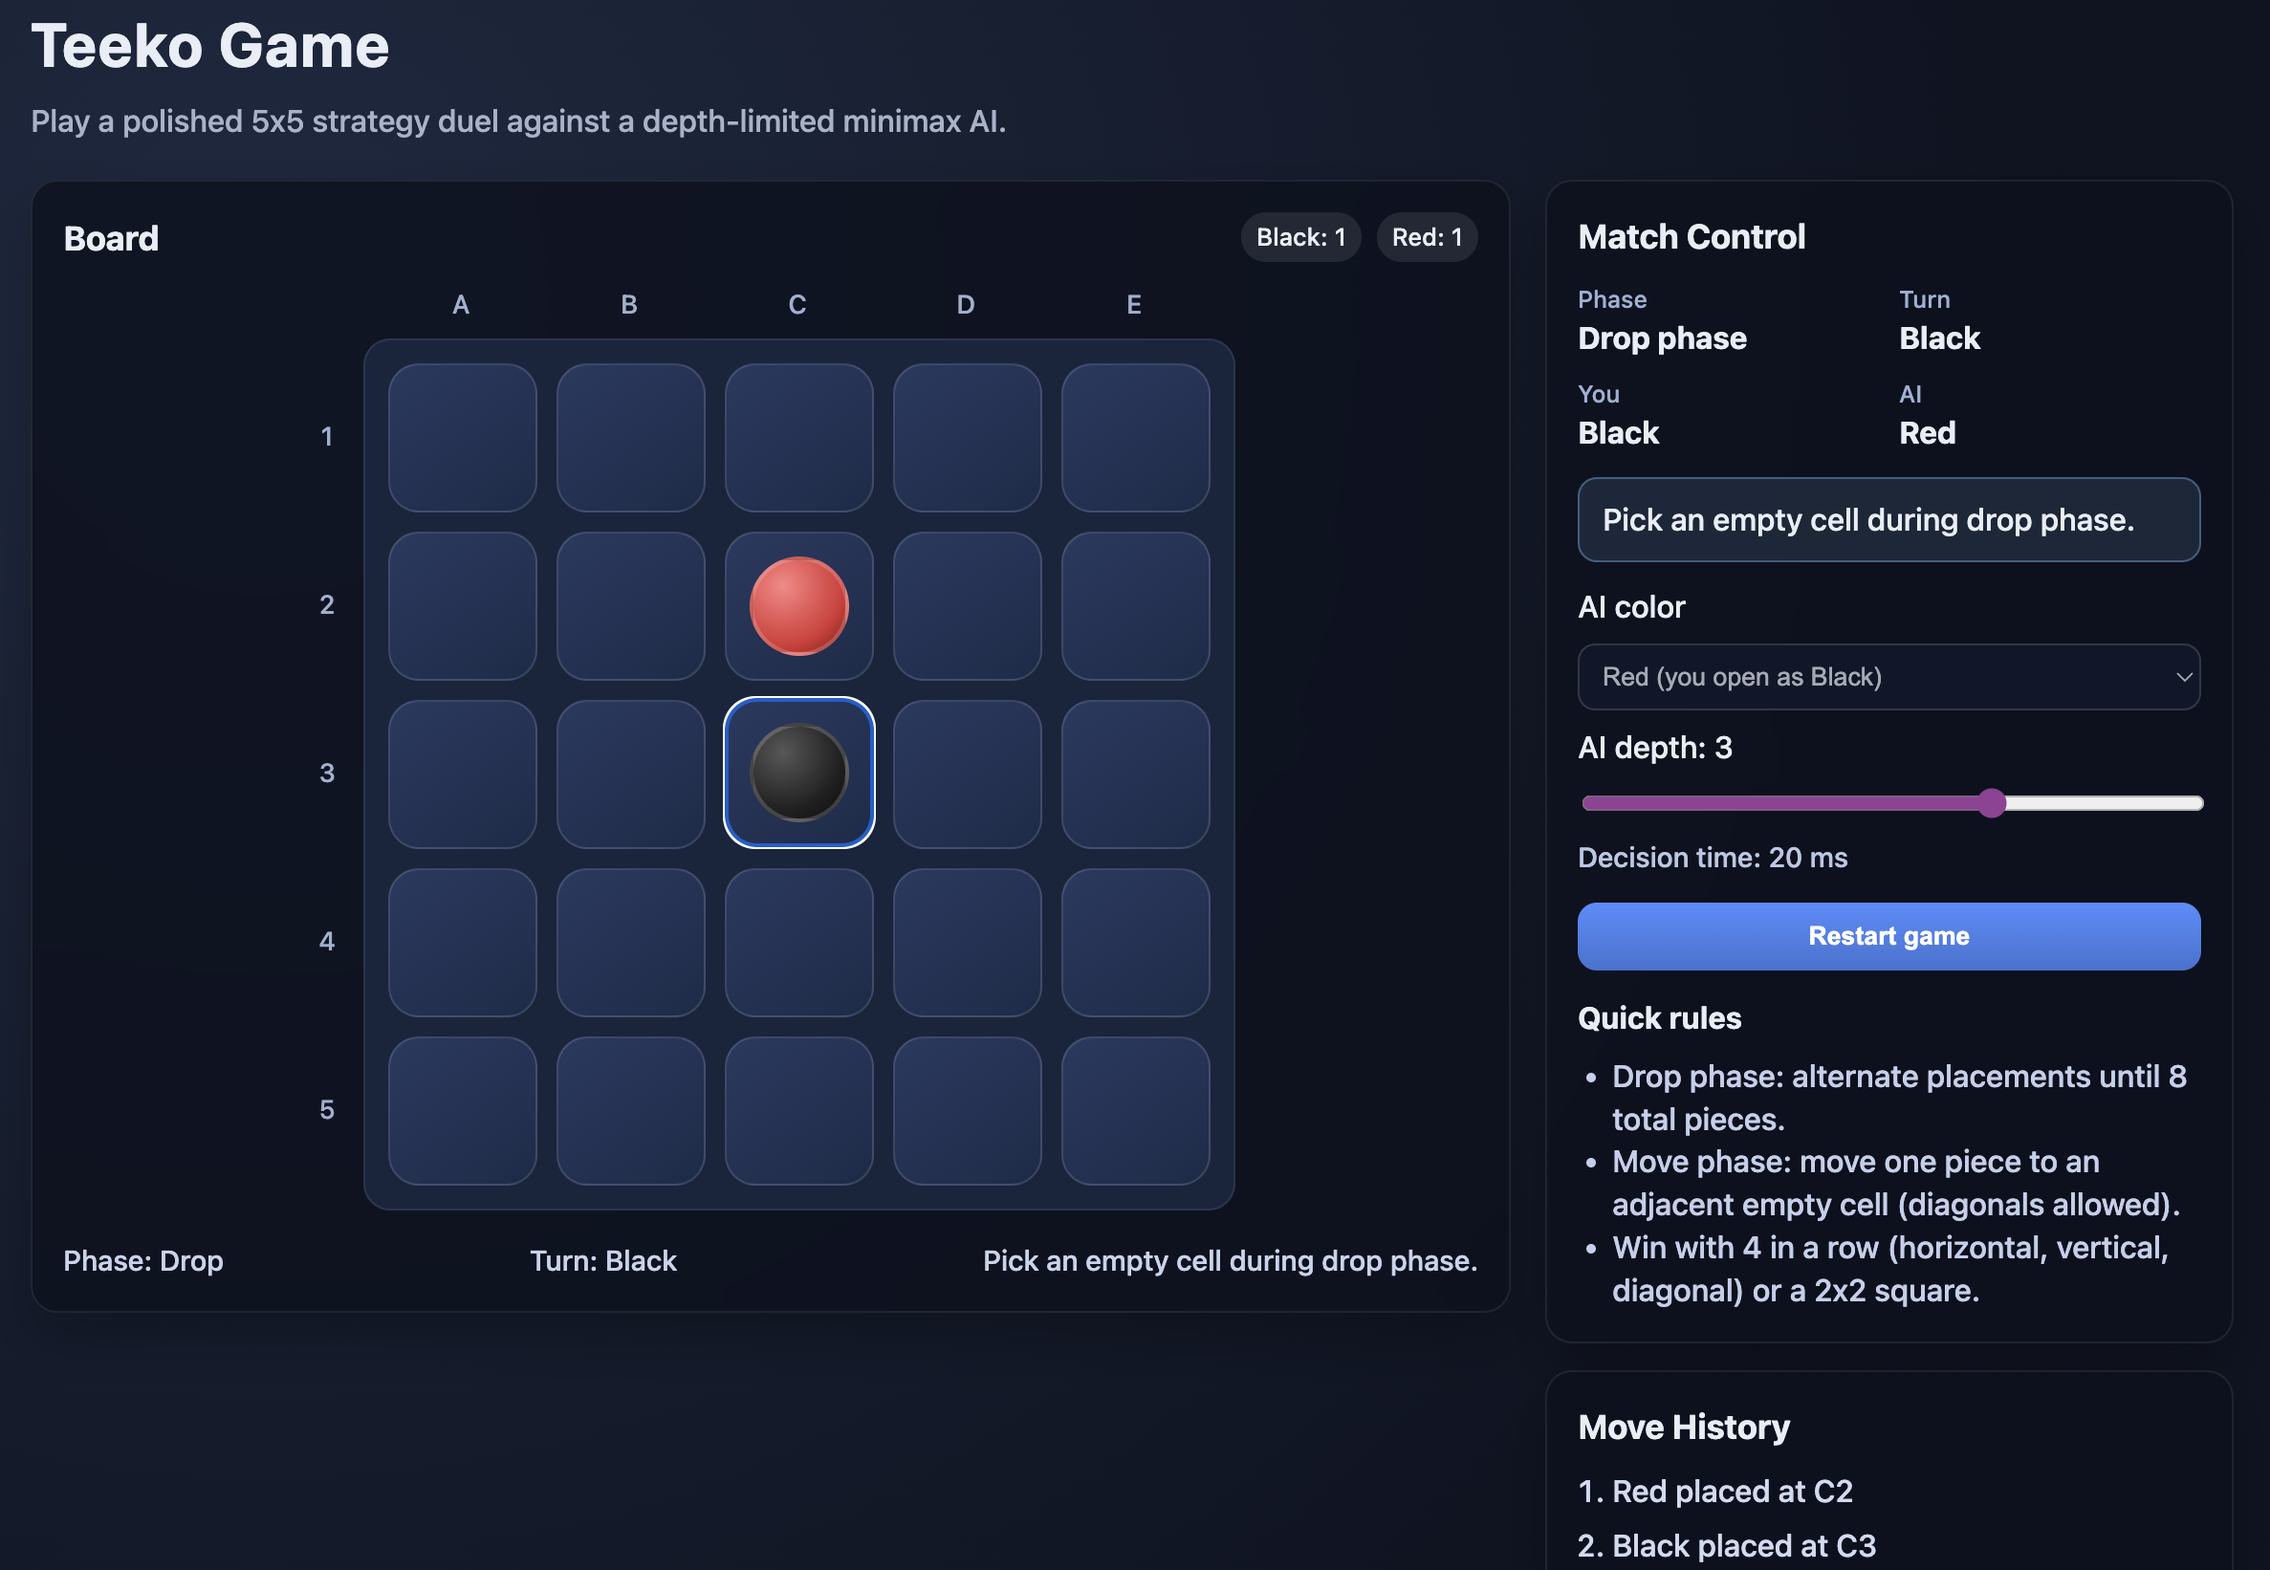
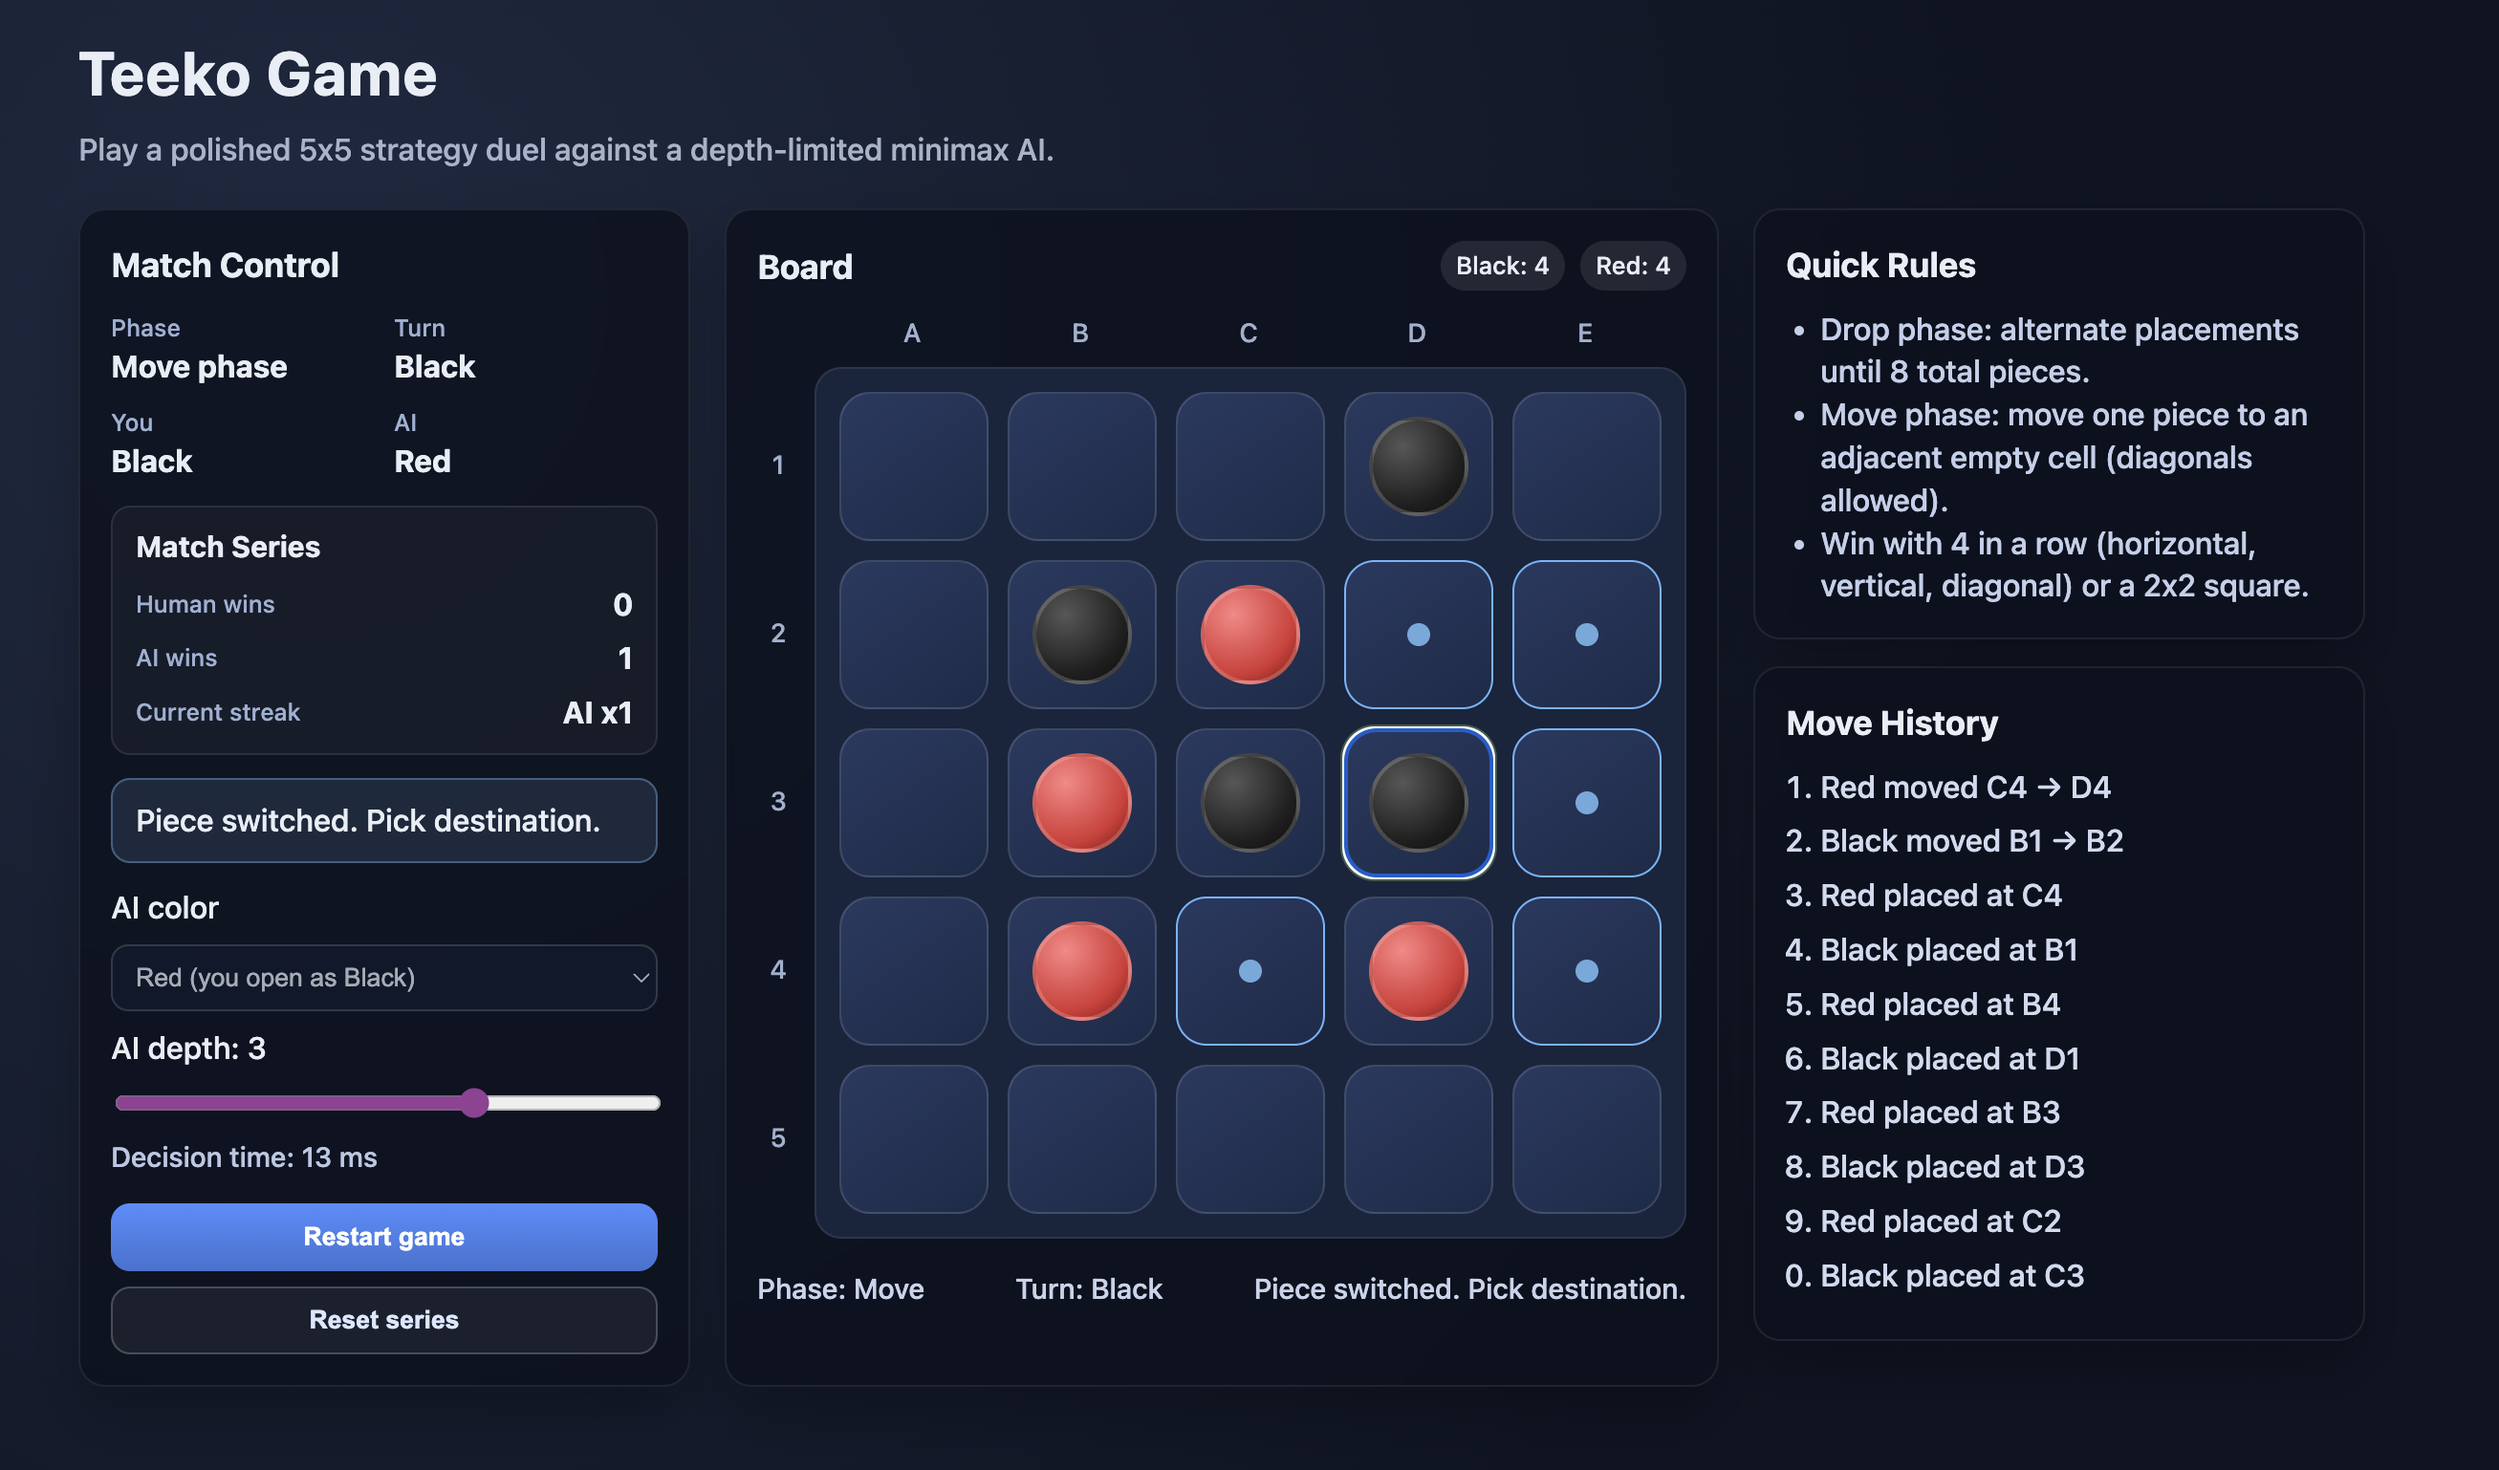
Format adjustment

diff --git a/src/App.tsx b/src/App.tsx
@@ -1,4 +1,5 @@
 import { HistoryPanel } from "./components/HistoryPanel";
+import { RulesPanel } from "./components/RulesPanel";
 import { StatusPanel } from "./components/StatusPanel";
 import { TeekoBoard } from "./components/TeekoBoard";
 import { PIECE_LABEL } from "./game/constants";
@@ -39,31 +40,7 @@ function App() {
       </header>
 
       <main className="layout">
-        <section className="board-panel panel">
-          <div className="board-panel-head">
-            <h2>Board</h2>
-            <div className="chip-row">
-              <span className="chip">Black: {stats.blackCount}</span>
-              <span className="chip">Red: {stats.redCount}</span>
-            </div>
-          </div>
-
-          <TeekoBoard
-            board={board}
-            selectedPiece={selectedPiece}
-            validTargets={validTargets}
-            winningPattern={winningPattern}
-            onCellClick={handleHumanCellClick}
-          />
-
-          <div className="board-footer">
-            <span>Phase: {phase === "drop" ? "Drop" : "Move"}</span>
-            <span>Turn: {PIECE_LABEL[currentTurn]}</span>
-            <span>{winner ? `Winner: ${PIECE_LABEL[winner]}` : statusMessage}</span>
-          </div>
-        </section>
-
-        <div className="side-column">
+        <div className="left-column">
           <StatusPanel
             phase={phase}
             currentTurn={currentTurn}
@@ -88,6 +65,34 @@ function App() {
             onRestart={() => resetGame(aiPiece)}
             onResetSeries={resetSeries}
           />
+        </div>
+
+        <section className="board-panel panel">
+          <div className="board-panel-head">
+            <h2>Board</h2>
+            <div className="chip-row">
+              <span className="chip">Black: {stats.blackCount}</span>
+              <span className="chip">Red: {stats.redCount}</span>
+            </div>
+          </div>
+
+          <TeekoBoard
+            board={board}
+            selectedPiece={selectedPiece}
+            validTargets={validTargets}
+            winningPattern={winningPattern}
+            onCellClick={handleHumanCellClick}
+          />
+
+          <div className="board-footer">
+            <span>Phase: {phase === "drop" ? "Drop" : "Move"}</span>
+            <span>Turn: {PIECE_LABEL[currentTurn]}</span>
+            <span>{winner ? `Winner: ${PIECE_LABEL[winner]}` : statusMessage}</span>
+          </div>
+        </section>
+
+        <div className="right-column">
+          <RulesPanel />
           <HistoryPanel entries={history} />
         </div>
       </main>

diff --git a/src/styles.css b/src/styles.css
@@ -1,7 +1,7 @@
 :root {
   font-family: Inter, system-ui, -apple-system, BlinkMacSystemFont, "Segoe UI", sans-serif;
   color: #e8edf6;
-  background: radial-gradient(circle at 20% 20%, #1d2940, #0f1422 65%);
+  background: #0f1422;
   line-height: 1.4;
   font-weight: 500;
 }
@@ -38,9 +38,9 @@ body {
 
 .layout {
   display: grid;
-  grid-template-columns: minmax(520px, 1fr) 360px;
+  grid-template-columns: 320px minmax(520px, 1fr) 320px;
   gap: 18px;
-  align-items: start;
+  align-items: stretch;
 }
 
 .panel {
@@ -199,10 +199,39 @@ body {
   font-size: 0.92rem;
 }
 
-.side-column {
+.left-column,
+.right-column {
   display: flex;
   flex-direction: column;
   gap: 14px;
+  min-height: 100%;
+}
+
+.left-column > .panel,
+.board-panel {
+  height: 100%;
+}
+
+.right-column > .panel {
+  flex: 0 0 auto;
+}
+
+.right-column > .history-panel {
+  flex: 1 1 0;
+  min-height: 0;
+}
+
+.rules-panel ul {
+  margin: 10px 0 0;
+  padding-left: 18px;
+  color: #c2cfea;
+}
+
+.history-panel {
+  min-height: 0;
+  display: flex;
+  flex-direction: column;
+  overflow: hidden;
 }
 
 .status-grid {
@@ -300,31 +329,28 @@ select {
   cursor: pointer;
 }
 
-.rules {
-  margin-top: 14px;
-}
-
-.rules h3 {
-  margin: 0 0 8px;
-  font-size: 0.98rem;
-}
-
-.rules ul {
-  margin: 0;
-  padding-left: 18px;
-  color: #c2cfea;
-}
-
-.history-panel ol {
+.history-list {
+  list-style: none;
   margin: 10px 0 0;
-  padding-left: 18px;
-  max-height: 220px;
+  padding: 0;
+  max-height: none;
+  min-height: 0;
+  flex: 1 1 auto;
   overflow: auto;
 }
 
-.history-panel li {
+.history-list li {
+  display: grid;
+  grid-template-columns: 28px 1fr;
+  align-items: baseline;
+  gap: 8px;
   margin-bottom: 6px;
   color: #d0daf0;
+}
+
+.history-index {
+  color: #9fb3d9;
+  text-align: right;
 }
 
 .history-empty {

diff --git a/src/components/HistoryPanel.tsx b/src/components/HistoryPanel.tsx
@@ -14,11 +14,14 @@ export function HistoryPanel({ entries }: HistoryPanelProps) {
       {entries.length === 0 ? (
         <p className="history-empty">No moves yet.</p>
       ) : (
-        <ol>
+        <ul className="history-list">
           {entries.map((entry) => (
-            <li key={entry.id}>{entry.text}</li>
+            <li key={entry.id}>
+              <span className="history-index">{entry.id}.</span>
+              <span>{entry.text}</span>
+            </li>
           ))}
-        </ol>
+        </ul>
       )}
     </section>
   );

diff --git a/src/components/StatusPanel.tsx b/src/components/StatusPanel.tsx
@@ -121,15 +121,6 @@ export function StatusPanel({
           Reset series
         </button>
       </div>
-
-      <div className="rules">
-        <h3>Quick rules</h3>
-        <ul>
-          <li>Drop phase: alternate placements until 8 total pieces.</li>
-          <li>Move phase: move one piece to an adjacent empty cell (diagonals allowed).</li>
-          <li>Win with 4 in a row (horizontal, vertical, diagonal) or a 2x2 square.</li>
-        </ul>
-      </div>
     </aside>
   );
 }

diff --git a/src/components/RulesPanel.tsx b/src/components/RulesPanel.tsx
@@ -1,0 +1,12 @@
+export function RulesPanel() {
+  return (
+    <section className="panel rules-panel">
+      <h2>Quick Rules</h2>
+      <ul>
+        <li>Drop phase: alternate placements until 8 total pieces.</li>
+        <li>Move phase: move one piece to an adjacent empty cell (diagonals allowed).</li>
+        <li>Win with 4 in a row (horizontal, vertical, diagonal) or a 2x2 square.</li>
+      </ul>
+    </section>
+  );
+}

diff --git a/src/hooks/useTeekoGame.ts b/src/hooks/useTeekoGame.ts
@@ -90,7 +90,7 @@ export function useTeekoGame() {
       piece,
       text: `${PIECE_LABEL[piece]} ${describeMove(move)}`,
     };
-    setHistory((prev) => [entry, ...prev].slice(0, 40));
+    setHistory((prev) => [entry, ...prev].slice(0, 300));
     setMoveCounter((prev) => prev + 1);
   };
 
